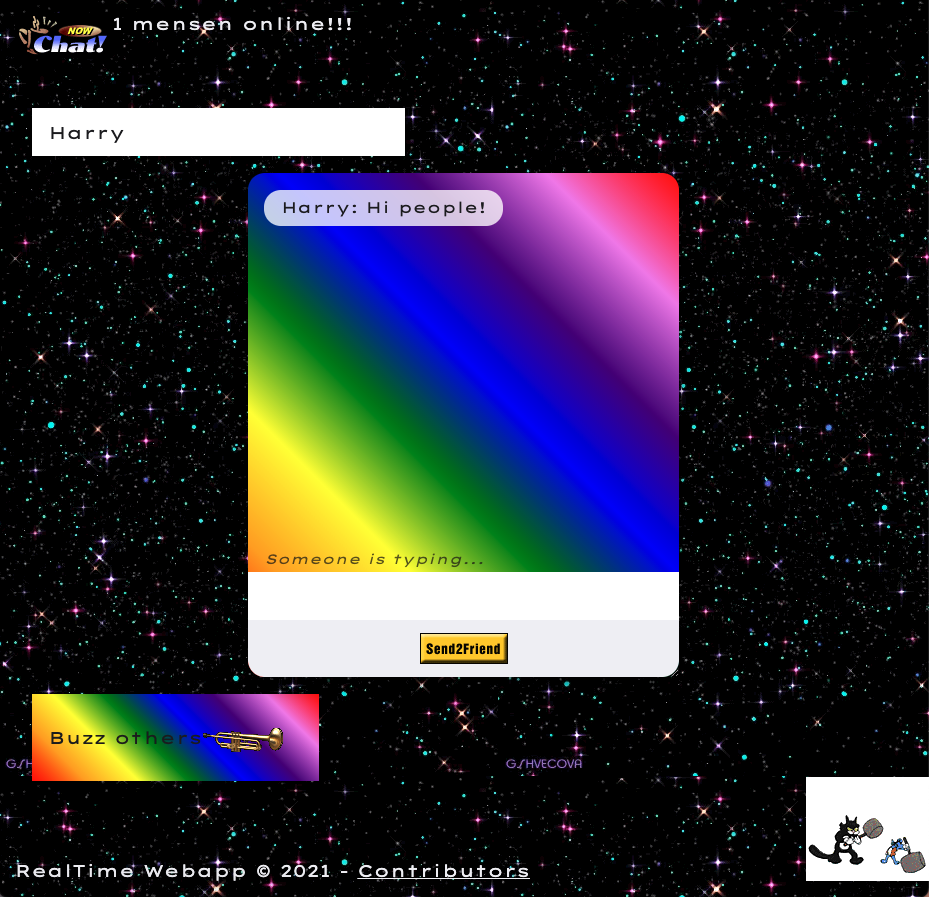
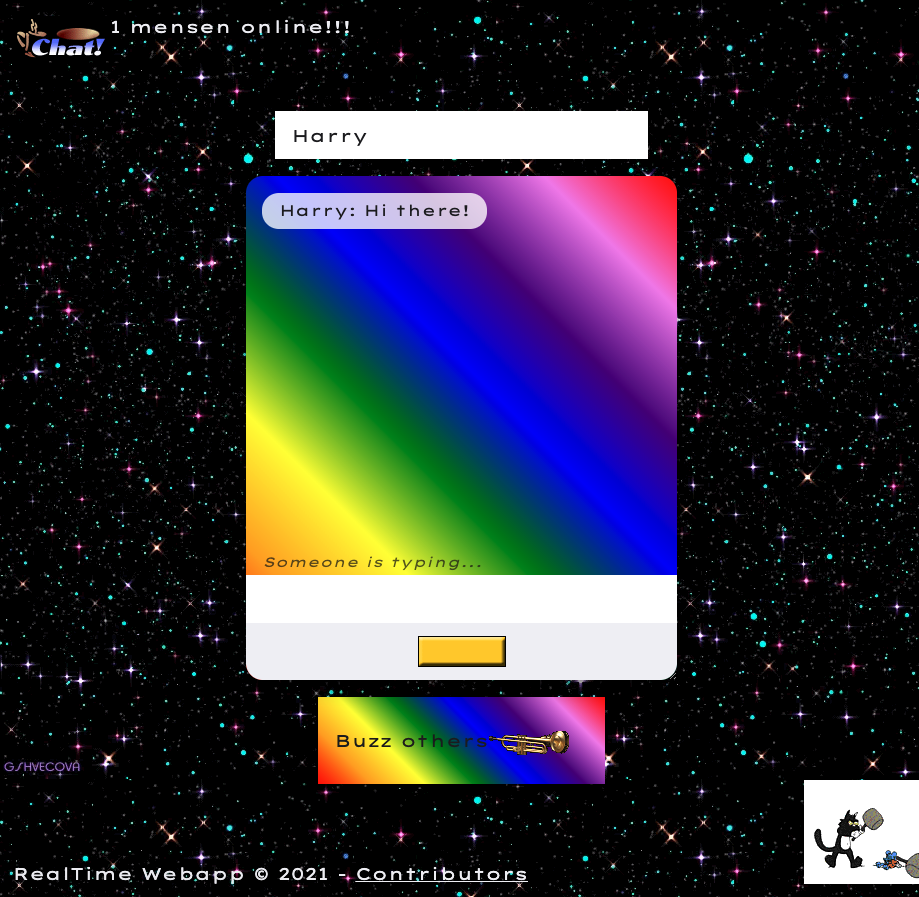
finished commit :fire:

diff --git a/public/style.css b/public/style.css
@@ -46,7 +46,9 @@ body {
   min-height: 100%;
   height: 100%;
   padding-bottom: 10rem;
+  text-align: center;
 }
+
 
 header,
 main {
@@ -110,6 +112,12 @@ button {
     red
   );
   color: var(--color-black);
+}
+
+button:nth-child(1) {
+  margin: 0 auto;
+  color: white;
+  text-shadow: 0 0 10px black;
 }
 
 /* ------------------------------------------- */
@@ -250,6 +258,7 @@ button {
   font-style: italic;
   opacity: 0.7;
   font-size: 0.8rem;
+  text-align: left;
 }
 
 .buzzing * {

diff --git a/public/index.html b/public/index.html
@@ -14,7 +14,7 @@
       href="https://fonts.googleapis.com/css2?family=Lexend+Zetta&display=swap"
       rel="stylesheet"
     />
-    <title>Assignment #1</title>
+    <title>Chat app</title>
   </head>
   <body>
     <header>

diff --git a/README.MD b/README.MD
@@ -5,6 +5,8 @@
 
 <img src="public/assets/readme/app-finished.png" alt="Screenshot application" width="600px">
 
+[Live link](https://real-time-web-2021.herokuapp.com/)
+
 ## Concept
 
 This application is an app where you can chat with each other. The app is built with [socket.io](https://socket.io/), [NodeJS](https://nodejs.org/en/) and [Express](https://expressjs.com/). The User Interface has a super user-friendly modern interface .. or not? :stuck_out_tongue_winking_eye:
